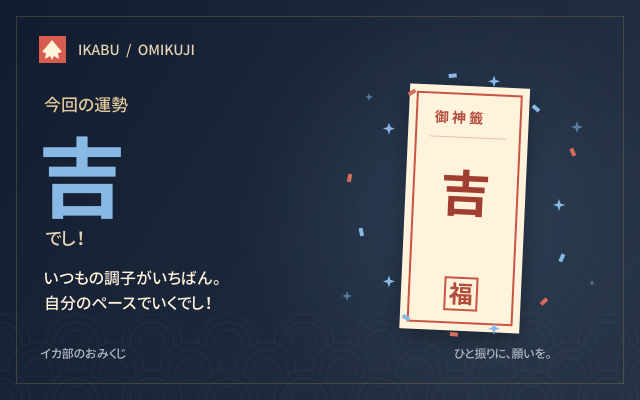
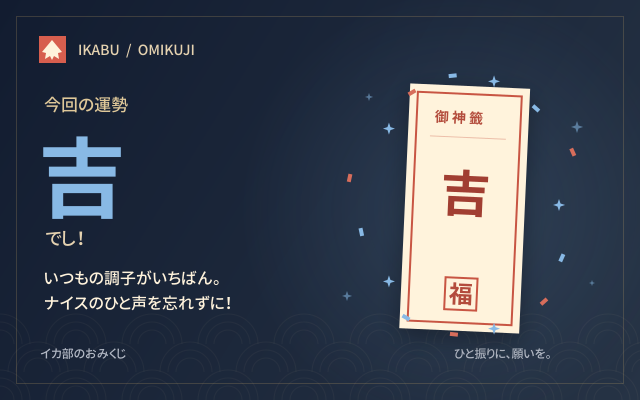
feat: おみくじの文言にさりげなくスプラらしさを追加

Changed region(s): [[0.0625, 0.72, 0.375, 0.78]]

diff --git a/src/features/omikuji/fortunes.ts b/src/features/omikuji/fortunes.ts
@@ -21,13 +21,13 @@ export const fortunes = [
         id: 'kichi',
         name: '吉',
         color: 0x88b9e5,
-        message: 'いつもの調子がいちばん。自分のペースでいくでし！',
+        message: 'いつもの調子がいちばん。ナイスのひと声を忘れずに！',
     },
     {
         id: 'kyo',
         name: '凶',
         color: 0xb0a2d7,
-        message: 'ひと息つくのも作戦でし。焦らず、次のチャンスへ！',
+        message: 'ひと息つくのも作戦でし。深追いせず、次のチャンスへ！',
     },
     {
         id: 'daikyo',
